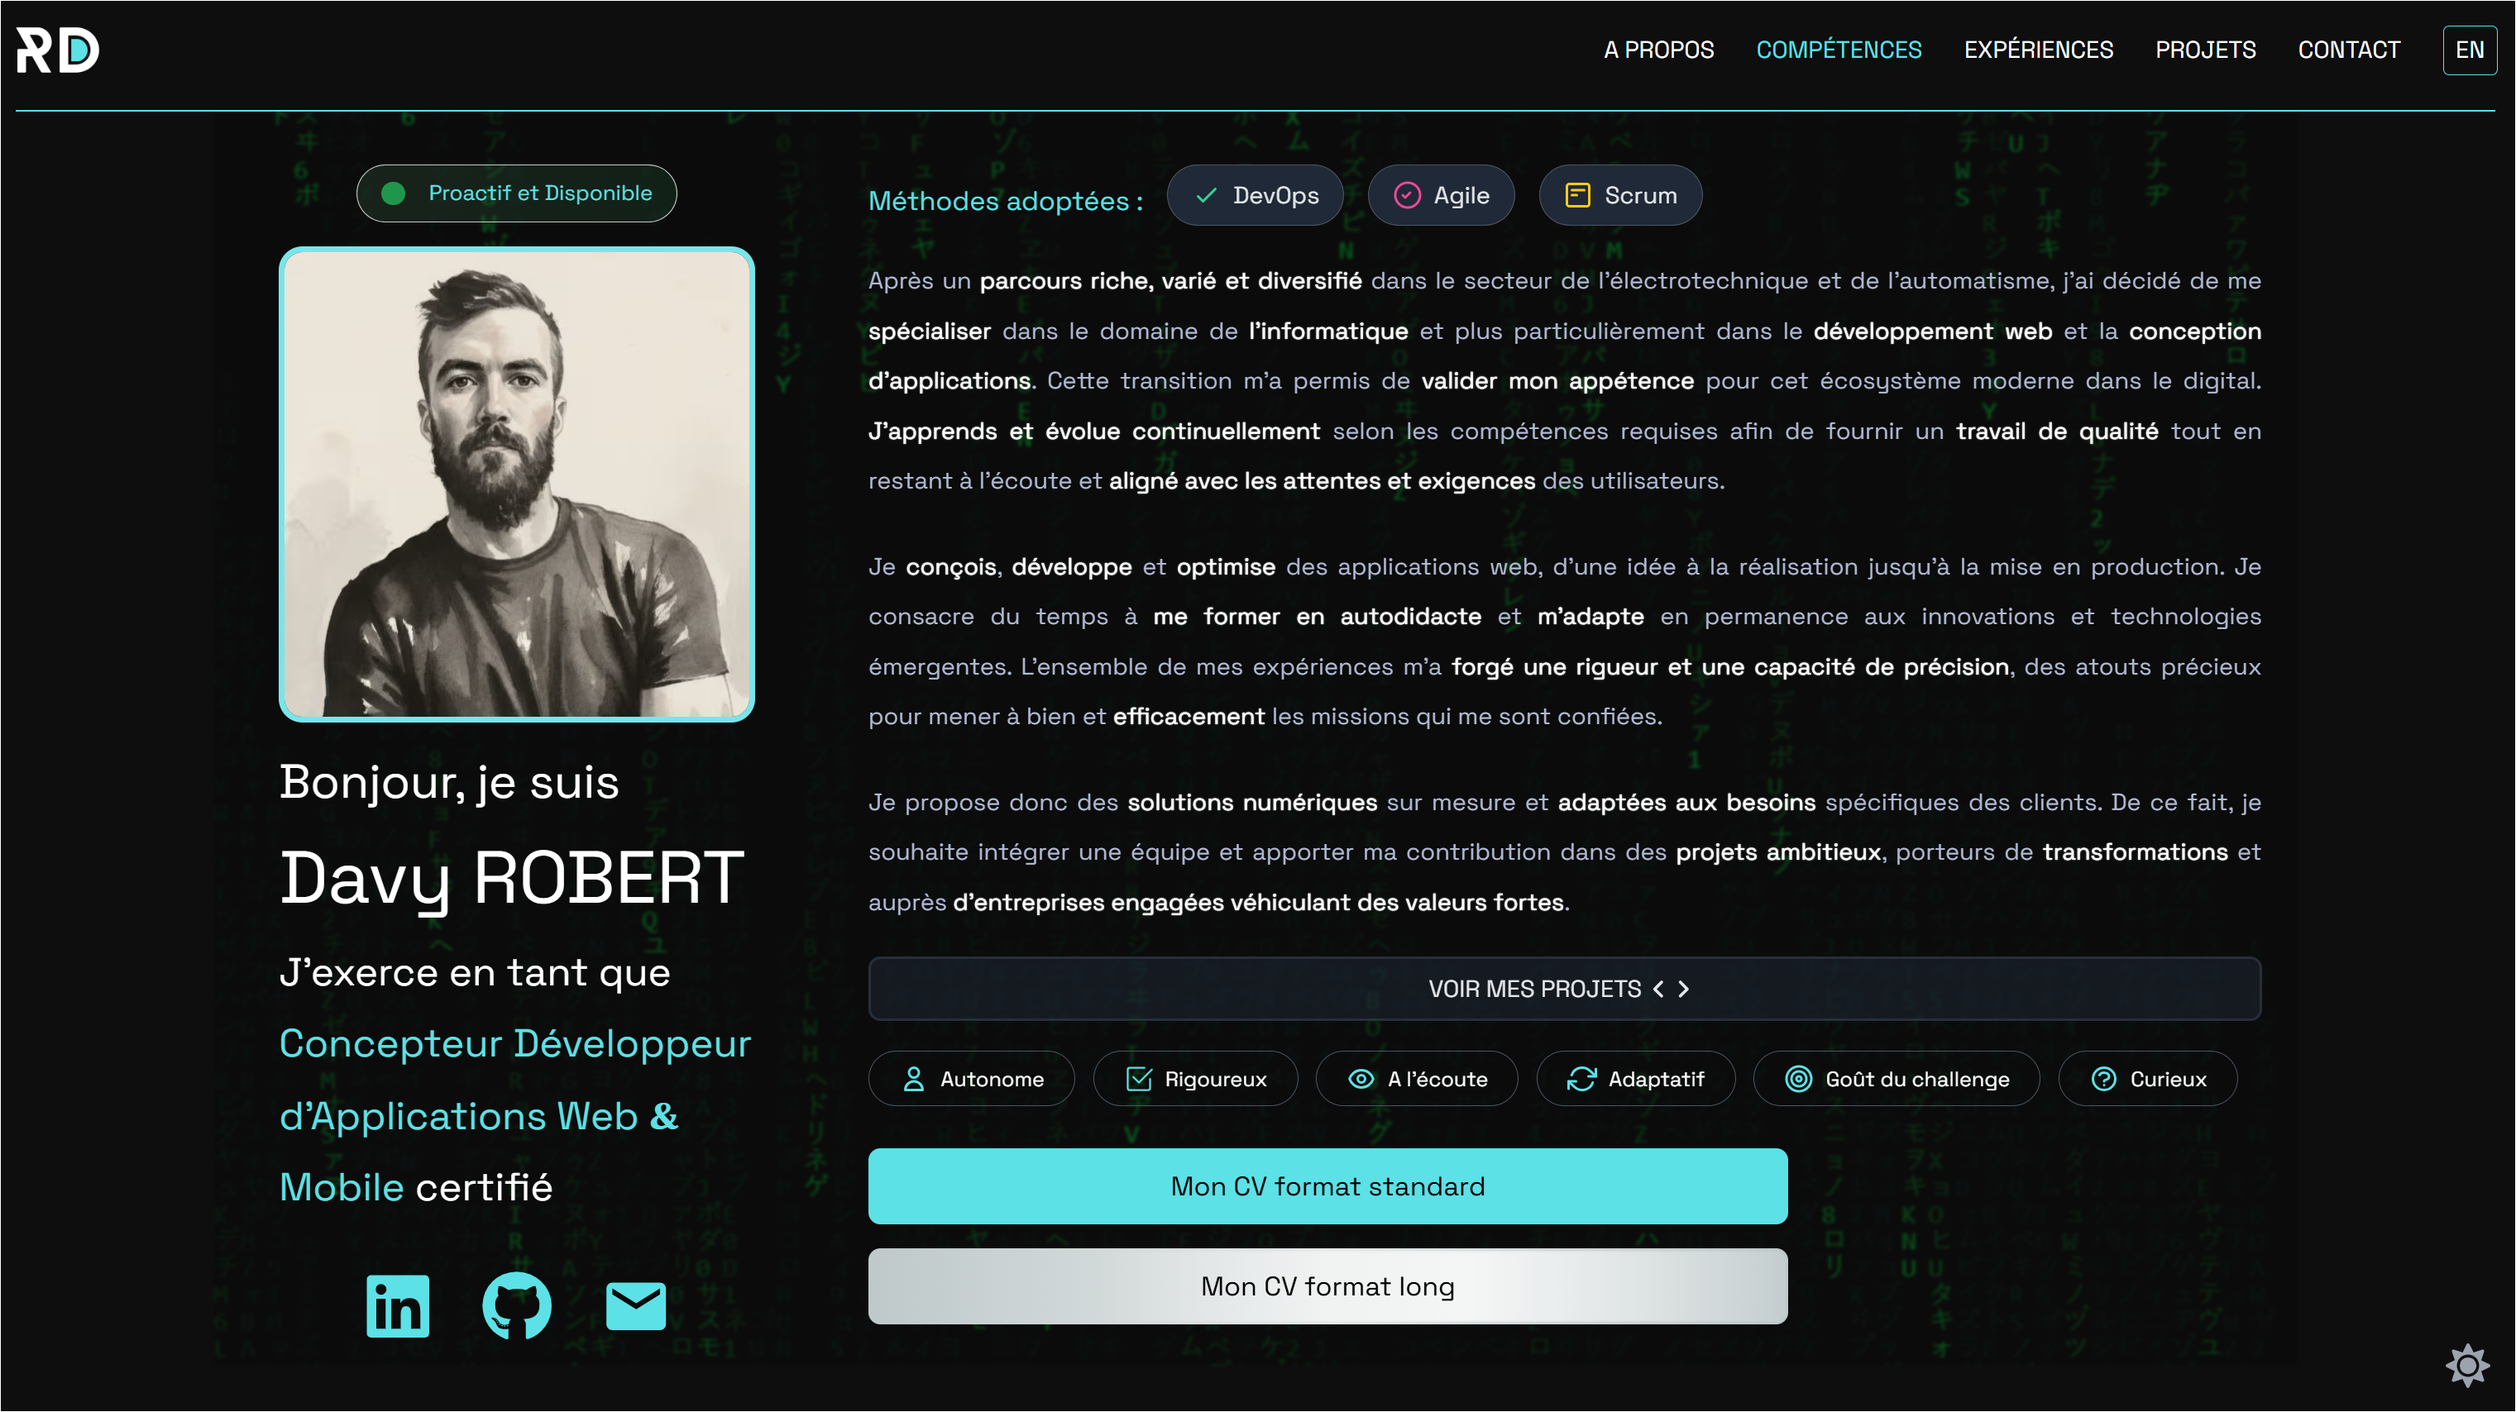
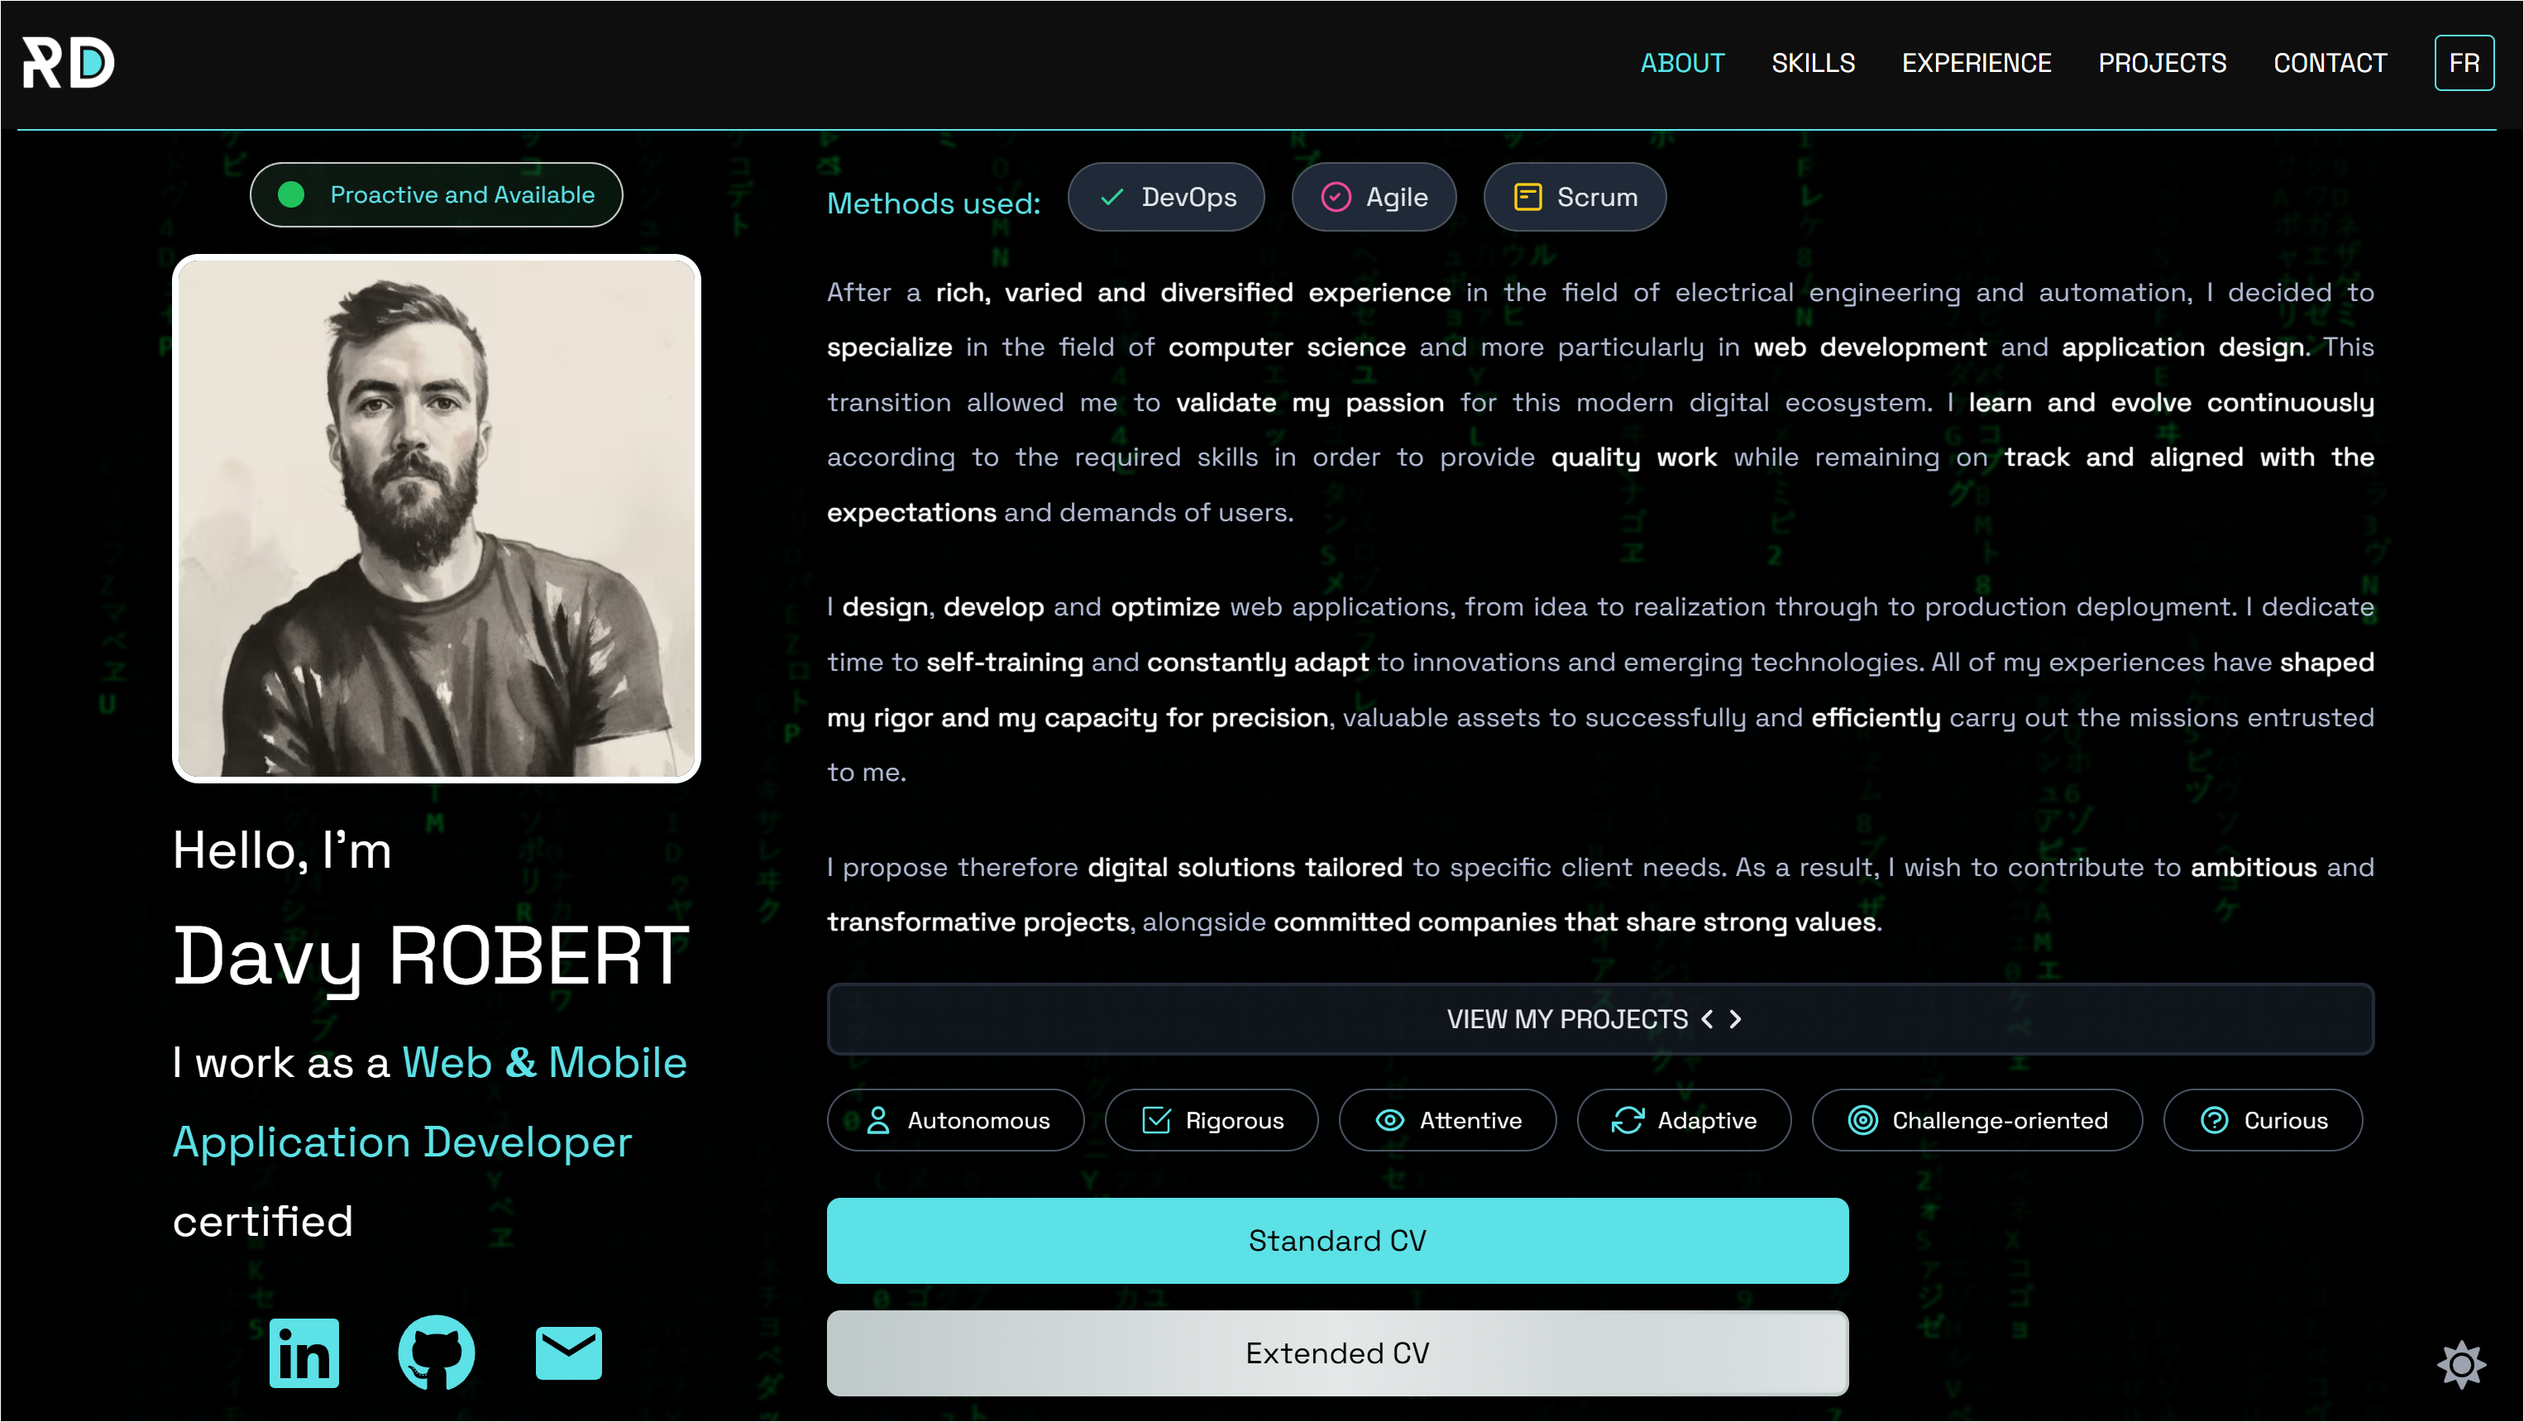
Update styles

diff --git a/src/app/components/Skills.tsx b/src/app/components/Skills.tsx
@@ -12,7 +12,7 @@ const Skills = () => {
     return (
         <motion.section
             id="skills"
-            className="pt-32 px-4 text-[var(--text-color-dark)] dark:text-[var(--text-color-light)]"
+            className="pt-32 w-full text-[var(--text-color-dark)] dark:text-[var(--text-color-light)] dark:bg-[var(--bg-primary)] pb-8"
             initial={{ opacity: 0, y: 20 }}
             whileInView={{ opacity: 1, y: 0 }}
             viewport={{ once: true, amount: 0.1 }}
@@ -23,36 +23,38 @@ const Skills = () => {
             </h2>
 
             {/* Sections d'intervention et stacks techniques */}
-            <div className="max-w-[1150px] mx-auto mb-12 px-4">
-                <div className="grid lg:grid-cols-2 gap-16">
-                    <div>
-                        <h3 className="font-semibold text-[--primary-color] mb-4 text-xl">{t('interventionTitle')}</h3>
-                        <ul className="list-disc list-inside space-y-2 text-[var(--text-color-dark)] dark:text-[var(--text-color-light)]">
-                            <li className='keyword-highlight'>{t('intervention1')}</li>
-                            <li className='keyword-highlight'>{t('intervention2')}</li>
-                            <li className='keyword-highlight'>{t('intervention3')}</li>
-                            <li className='dark:text-[var(--text-color-main)]'>{t('intervention4')}</li>
-                            <li className='dark:text-[var(--text-color-main)]'>{t('intervention5')}</li>
-                        </ul>
-                    </div>
+            <div className="w-full mb-12 dark:bg-[var(--bg-primary-menu)] py-8">
+                <div className='max-w-[1200px] mx-auto px-[2.5rem] lg:px-[4rem]'>
+                    <div className="grid lg:grid-cols-2 gap-16 lg:gap-28">
+                        <div>
+                            <h3 className="font-semibold text-[--primary-color] mb-4 text-xl">{t('interventionTitle')}</h3>
+                            <ul className="list-disc list-inside space-y-2 text-[var(--text-color-dark)] dark:text-[var(--text-color-light)]">
+                                <li className='keyword-highlight'>{t('intervention1')}</li>
+                                <li className='keyword-highlight'>{t('intervention2')}</li>
+                                <li className='keyword-highlight'>{t('intervention3')}</li>
+                                <li className='dark:text-[var(--text-color-main)]'>{t('intervention4')}</li>
+                                <li className='dark:text-[var(--text-color-main)]'>{t('intervention5')}</li>
+                            </ul>
+                        </div>
 
-                    <div>
-                        <h3 className="font-semibold text-[--primary-color] mb-4 text-xl">{t('stacksTitle')}</h3>
-                        <ul className="list-disc list-inside space-y-2 text-[var(--text-color-dark)] dark:text-[var(--text-color-light)]">
-                            <li className='keyword-highlight-secondary'>{t('stack1')}</li>
-                            <li className='keyword-highlight'>{t('stack2')}</li>
-                            <li className='keyword-highlight'>{t('stack3')}</li>
-                            <li className='keyword-highlight'>{t('stack4')}</li>
-                            <li> <span className='keyword-highlight'>{t('stack5')}</span><span className='text-[var(--text-color-main)]'>{t('stack8')}</span></li>
-                            <li> <span className='keyword-highlight'>{t('stack6')}</span><span className='text-[var(--text-color-main)]'>{t('stack8')}</span></li>
-                            <li className='dark:text-[var(--text-color-main)]'>{t('stack7')}</li>
-                        </ul>
+                        <div>
+                            <h3 className="font-semibold text-[--primary-color] mb-4 text-xl">{t('stacksTitle')}</h3>
+                            <ul className="list-disc list-inside space-y-2 text-[var(--text-color-dark)] dark:text-[var(--text-color-light)]">
+                                <li className='keyword-highlight-secondary'>{t('stack1')}</li>
+                                <li className='keyword-highlight'>{t('stack2')}</li>
+                                <li className='keyword-highlight'>{t('stack3')}</li>
+                                <li className='keyword-highlight'>{t('stack4')}</li>
+                                <li> <span className='keyword-highlight'>{t('stack5')}</span><span className='text-[var(--text-color-main)]'>{t('stack8')}</span></li>
+                                <li> <span className='keyword-highlight'>{t('stack6')}</span><span className='text-[var(--text-color-main)]'>{t('stack8')}</span></li>
+                                <li className='dark:text-[var(--text-color-main)]'>{t('stack7')}</li>
+                            </ul>
+                        </div>
                     </div>
                 </div>
             </div>
 
             {/* 🔹 Mobile <640px (flexible grid responsive) */}
-            <div className="sm:hidden w-full max-w-[1200px] mx-auto flex flex-col gap-12">
+            <div className="sm:hidden w-full max-w-[1200px] mx-auto flex flex-col gap-12 px-4">
                 {categories.map((cat) => (
                     <div key={cat.titleKey} className="flex flex-col items-center gap-6 px-4">
                         <h3 className="text-3xl font-semibold dark:text-[var(--text-color-light)] text-[var(--text-color-dark)]">{t(`categories.${cat.titleKey}`)}</h3>
@@ -75,7 +77,7 @@ const Skills = () => {
 
 
             {/* 🔹 Desktop ≥640px (grid version) */}
-            <div className="hidden sm:grid w-full max-w-[1200px] lg:max-w-[1200px] mx-auto sm:grid-cols-2 md:grid-cols-3 lg:grid-cols-4">
+            <div className="hidden sm:grid w-full max-w-[1200px] mx-auto lg:px-[2.5rem] sm:grid-cols-2 md:grid-cols-3 lg:grid-cols-4">
                 {categories.map((cat, idx) => (
                     <div
                         key={cat.titleKey}

diff --git a/src/app/components/MyProjects.tsx b/src/app/components/MyProjects.tsx
@@ -13,12 +13,13 @@ const MyProjects = () => {
    const { formatProjectsIntro } = useRichTextFormatters();
 
    return (
-      <section id="projets" className="pt-32 text-[var(--text-color-dark)] dark:text-[var(--text-color-light)] px-4">
-         <h2 className="text-center text-[--primary-color] uppercase text-4xl font-bold mb-12">
-            <span className="italic text-[var(--text-color-dark)] dark:text-[var(--text-color-light)]">{t('title1')}</span> {t('title2')} <span className="font-cambriaaa">&</span> {t('title3')}
-         </h2>
+      <section id="projets" className="pt-32 text-[var(--text-color-dark)] dark:text-[var(--text-color-light)] w-full">
+         <div className='w-full py-8'>
+            <h2 className="text-center text-[--primary-color] uppercase text-4xl font-bold mb-8 px-5">
+               <span className="italic text-[var(--text-color-dark)] dark:text-[var(--text-color-light)]">{t('title1')}</span> {t('title2')} <span className="font-cambriaaa">&</span> {t('title3')}
+            </h2>
 
-         <div className='w-full flex'>
+            <div className='w-full flex bg-[var(--bg-primary-menu)] py-8 px-5'>
             <motion.p
                initial={{ opacity: 0 }}
                animate={{ opacity: 1 }}
@@ -28,8 +29,9 @@ const MyProjects = () => {
                {formatProjectsIntro()}
             </motion.p>
          </div>
+         </div>
 
-         <div className="mt-20 flex justify-center w-full">
+         <div className="mt-8 flex justify-center w-full px-4">
             <div className="w-full max-w-[1200px]">
                <div className="flex flex-wrap justify-center gap-7 w-full">
                   {projects.map((project, index) => (

diff --git a/src/app/components/ui/MatrixCanvas.tsx b/src/app/components/ui/MatrixCanvas.tsx
@@ -25,12 +25,12 @@ const MatrixCanvas: React.FC<MatrixCanvasProps> = ({ sectionRef }) => {
 
     function draw() {
       if (!ctx) return;
-      // ctx.fillStyle = 'rgba(0, 0, 0, 0.15)';
-      ctx.fillStyle = 'rgba(14, 14, 14, 0.15)';
+      ctx.fillStyle = 'rgba(0, 0, 0, 0.15)';
+      // ctx.fillStyle = 'rgba(14, 14, 14, 0.15)';
 
       ctx.fillRect(0, 0, w, h);
       ctx.font = fontSize + 'px monospace';
-      ctx.fillStyle = 'rgba(0,255,65,0.35)';
+      ctx.fillStyle = 'rgba(0,255,65,0.38)';
       for (let i = 0; i < drops.length; i++) {
         const text = letters[Math.floor(Math.random() * letters.length)];
         ctx.fillText(text, i * fontSize, drops[i] * fontSize);

diff --git a/src/app/components/NavbarProjects.tsx b/src/app/components/NavbarProjects.tsx
@@ -17,7 +17,7 @@ const NavbarBackProjects = () => {
   };
 
   return (
-    <header className="fixed top-0 left-0 right-0 z-30 w-[100%] mx-auto bg-[var(--bg-primary)] text-[var(--text-color-dark)] dark:bg-[var(--bg-primary)] dark:text-[var(--text-color-light)]">
+    <header className="fixed top-0 left-0 right-0 z-30 w-[100%] mx-auto bg-[var(--bg-primary)] text-[var(--text-color-dark)] dark:bg-[var(--bg-primary-menu)] dark:text-[var(--text-color-light)]">
       <div className="flex flex-row justify-between items-center px-6 h-20 relative">
         <Link href="/" className="block w-[60px] h-[80px] relative select-none">
           <Image

diff --git a/src/app/[locale]/page.tsx b/src/app/[locale]/page.tsx
@@ -29,7 +29,7 @@ export default function HomePage() {
   }, [searchParams, router]);
 
   return (
-    <main className="flex-1 flex flex-col px-2 sm:px-8 pb-20 gap-16 font-grotesk font-[800] dark:bg-[var(--bg-primary)] dark:text-[var(--text-color-light)] text-[var(--text-color-dark)]">
+    <main className="flex-1 flex flex-col pb-20 gap-16 font-grotesk font-[800] dark:bg-[var(--bg-primary)] dark:text-[var(--text-color-light)] text-[var(--text-color-dark)]">
       <div className="flex flex-col items-center gap-8 w-full">
       <Navbar />
       {/* <HeroSection /> */}

diff --git a/src/app/components/Contact.tsx b/src/app/components/Contact.tsx
@@ -9,7 +9,7 @@ const Contact = () => {
     const { formatContactParagraph } = useRichTextFormatters();
 
     return (
-        <section id="contact" className="pt-32 px-4">
+        <section id="contact" className="pt-32 px-5">
             <div className="max-w-[1400px] mx-auto flex flex-col items-center">
                 <h2 className="text-center text-[--primary-color] uppercase text-4xl font-bold mb-12">
                     <span className="italic dark:text-white text-black">{t('title').split(' ')[0]}</span> {t('title').split(' ')[1]}

diff --git a/src/app/components/Footer.tsx b/src/app/components/Footer.tsx
@@ -11,7 +11,7 @@ const Footer = () => {
    return (
       <motion.footer
          id="contact"
-         className="dark:bg-[var(--bg-primary)] bg-[var(--bg-primary)] text-[var(--text-color-dark)] dark:text-[var(--text-color-light)] py-10"
+         className="dark:bg-[var(--bg-primary-menu)] bg-[var(--bg-primary)] text-[var(--text-color-dark)] dark:text-[var(--text-color-light)] pb-6 "
          initial={{ opacity: 0, y: 40 }}
          whileInView={{ opacity: 1, y: 0 }}
          viewport={{ once: true, amount: 0.3 }}

diff --git a/src/app/[locale]/projects/[slug]/page.tsx b/src/app/[locale]/projects/[slug]/page.tsx
@@ -146,7 +146,7 @@ export default async function ProjectPage({ params }: ProjectPageProps) {
         <h2 className="text-2xl font-bold mb-4">
           {t('project.techStack.title')}
         </h2>
-        <div className="flex flex-wrap gap-3 mb-6">
+        <div className="flex flex-wrap gap-3 mb-6 uppercase">
           {project.tags.map((tag) => (
             <span
               key={tag.name}

diff --git a/src/styles/colors.css b/src/styles/colors.css
@@ -39,7 +39,7 @@
   --text-color-dl-invert: #000000;
   
   --border-primary-color: #ffffff;
-  --bg-primary: rgba(14, 14, 14);
+  --bg-primary: rgba(0, 0, 0);
   --bg-primary-menu: rgba(14, 14, 14);
   --bg-primary-menu-op: rgba(14, 14, 14, 0.8);
   

diff --git a/README.md b/README.md
@@ -9,7 +9,7 @@
 
 > Ce portfolio personnel moderne a été conçu avec Next.js, TypeScript et Tailwind CSS et est dédié à vous présenter mon parcours professionnel et compétences techniques en tant que Concepteur Développeur d'Applications Web & Mobile certifié.
 
-> Vous y retrouverez l'ensemble de mes projets et de mes différentes expériences. Pour discuter de mon parcours, de vos réels besoins, et de comment je peux vous apporter de la valeur, prenez contact avec moi pour en discuter. 
+> Vous y retrouverez l'ensemble de mes projets et de mes différentes expériences. Pour discuter de mon parcours, de vos réels besoins, et de comment je peux y contribuer en vous apportant un maximum de valeur, prenez contact avec moi pour en discuter. 
 
 > Pour me joindre, rendez-vous directement sur mon [LinkedIn](https://linkedin.com/in/davy-robert) en m'envoyant un message ou sur mon [Portfolio](https://davyrobert.fr) pour plus de détails.
 
@@ -182,4 +182,4 @@ Ce projet est un projet personnel dans le but de démontrer mes compétences et 
 
 ---
 
-**Développé avec ❤ par Davy ROBERT**
+**Développé avec ❤ par [DavyR01](https://github.com/DavyR01)**
